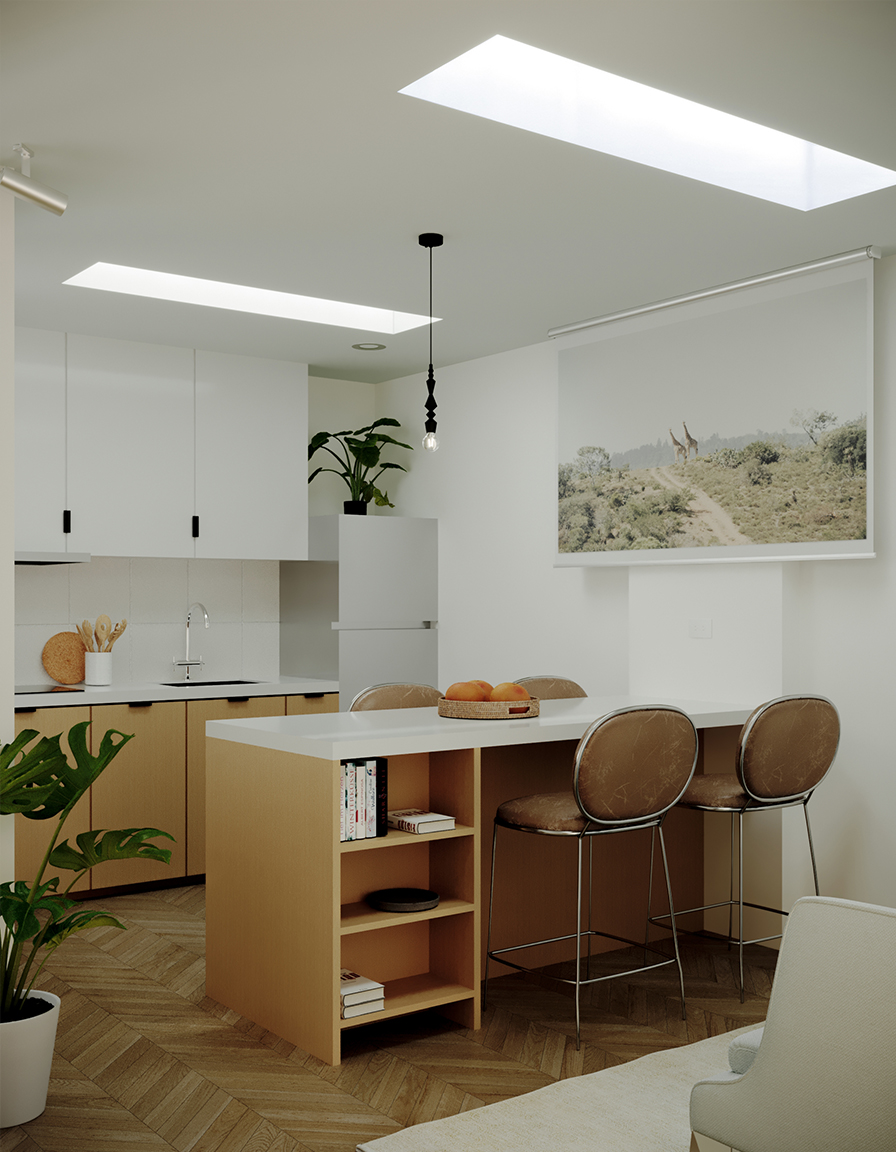
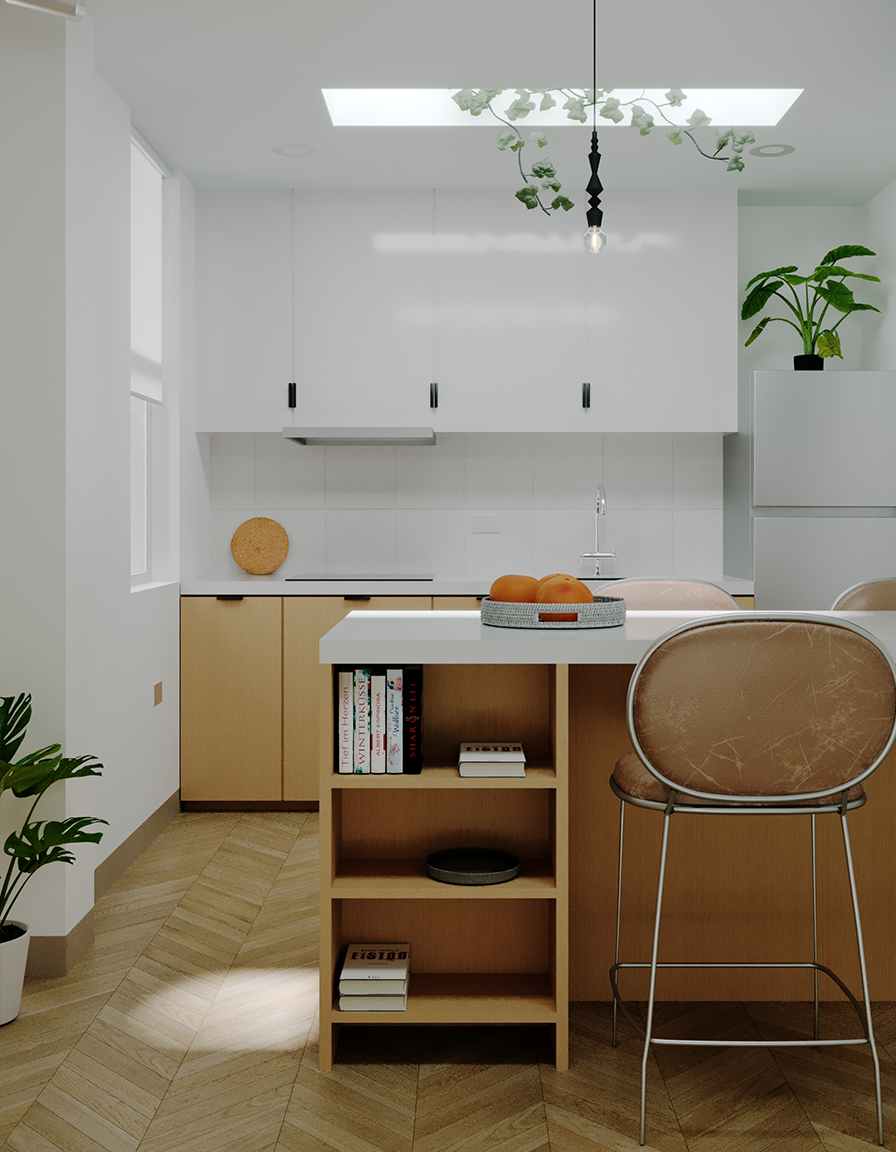
Add files via upload

diff --git a/departamento-L+W.html b/departamento-L+W.html
@@ -232,18 +232,21 @@ ventilación natural de los ambientes. Frente a este contexto, el proyecto tiene
                 </p>
             </div>
 
+            <!-- Galería de 4 Imágenes (Alineadas según tus nombres de archivo) -->
             <div class="project-gallery">
                 <div class="gallery-item">
-                    <img src="departamento-L+W-1.jpg" alt="departamento-L+W - Cocina">
+                    <img src="departamento-L+W-1.jpg" alt="Departamento-L+W-2 - Comedor Cocina">
                 </div>
                 <div class="gallery-item">
-                    <img src="departamento-L+W-2.jpg" alt="departamento-L+W - Baño" onerror="this.style.display='none'">
+                    <img src="departamento-L+W-2.jpg" alt="Departamento-L+W-2 - Comedor Cocina">
                 </div>
-                <div class="gallery-item full-width">
-                    <img src="departamento-L+W-3.jpg" alt="departamento-L+W - Comedor" onerror="this.style.display='none'">
+                <div class="gallery-item">
+                    <img src="departamento-L+W-3.jpg" alt="Departamento-L+W-2 - Baño">
+                </div>
+                <div class="gallery-item">
+                    <img src="departamento-L+W-4.jpg" alt="Departamento-L+W-2 - Dormitorio">
                 </div>
             </div>
-        </article>
     </main>
 
     <footer>

diff --git a/index.html b/index.html
@@ -517,7 +517,7 @@
                         <img src="Matices-1.jpg" alt="Proyecto Matices" style="width: 100%; height: 100%; object-fit: cover;">
                     </div>
                     <div class="project-meta">
-                        <span class="project-title">Proyecto Matices</span>
+                        <span class="project-title">Proyecto Matices I</span>
                         <span class="project-year">2026</span>
                     </div>
                 </a>